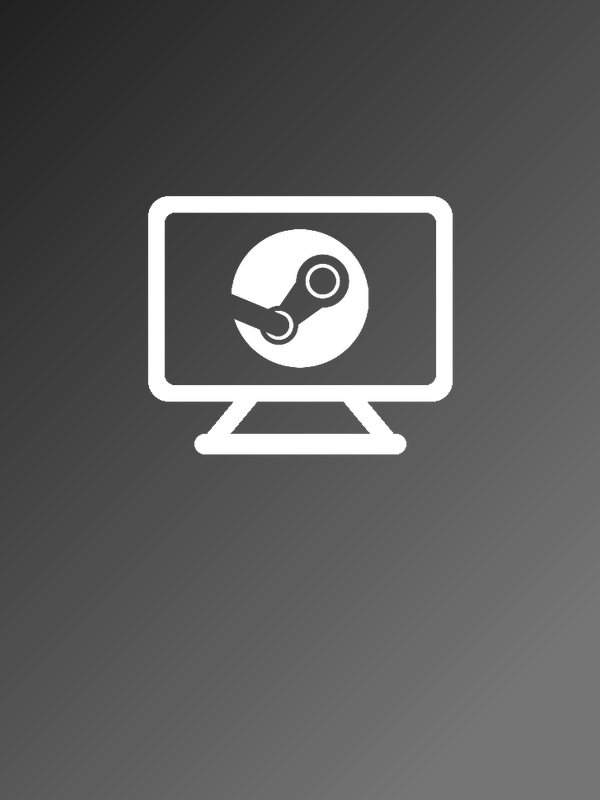
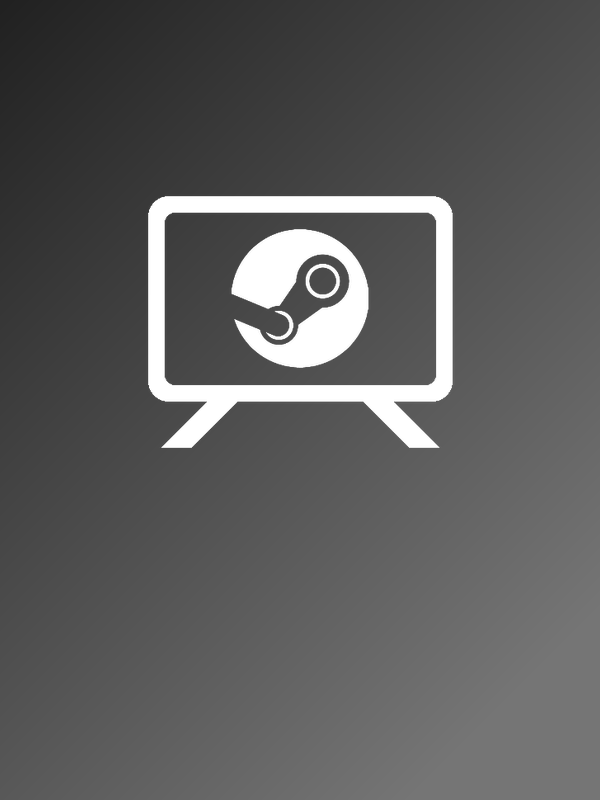
Big Picture: two feet near the corners, no rail across the bottom
With a bar between them it read as a monitor on a stand, which is the glyph
this one exists not to be. The feet now splay out from under the screen to
near the corners and there is nothing joining them.

Changed region(s): [[0.27, 0.5, 0.72, 0.5938]]

diff --git a/scripts/make-tiles.py b/scripts/make-tiles.py
@@ -255,12 +255,13 @@ def glyph_tv(inner=None):
     d = ImageDraw.Draw(m)
     rounded(d, [4 * s, 14 * s, 96 * s, 76 * s], 6 * s, (255, 255, 255, 255))
     rounded(d, [9 * s, 19 * s, 91 * s, 71 * s], 3 * s, (0, 0, 0, 0))
-    # Feet, not a stand. Two of them, splayed, the way a television stands.
-    d.polygon([(20 * s, 88 * s), (30 * s, 76 * s), (37 * s, 76 * s),
-               (27 * s, 88 * s)], fill=(255, 255, 255, 255))
-    d.polygon([(80 * s, 88 * s), (70 * s, 76 * s), (63 * s, 76 * s),
-               (73 * s, 88 * s)], fill=(255, 255, 255, 255))
-    rounded(d, [18 * s, 86 * s, 82 * s, 92 * s], 3 * s, (255, 255, 255, 255))
+    # Two feet, near the corners, and no rail between them: with a bar across
+    # the bottom it stopped being a television and became a monitor on a
+    # stand, which is the glyph this one exists not to be.
+    d.polygon([(8 * s, 90 * s), (22 * s, 76 * s), (31 * s, 76 * s),
+               (17 * s, 90 * s)], fill=(255, 255, 255, 255))
+    d.polygon([(92 * s, 90 * s), (78 * s, 76 * s), (69 * s, 76 * s),
+               (83 * s, 90 * s)], fill=(255, 255, 255, 255))
     if inner is not None:
         # Larger than the monitor's 30: this screen is wider, and a mark that
         # left as much dead glass as the desktop tile does reads as an empty
